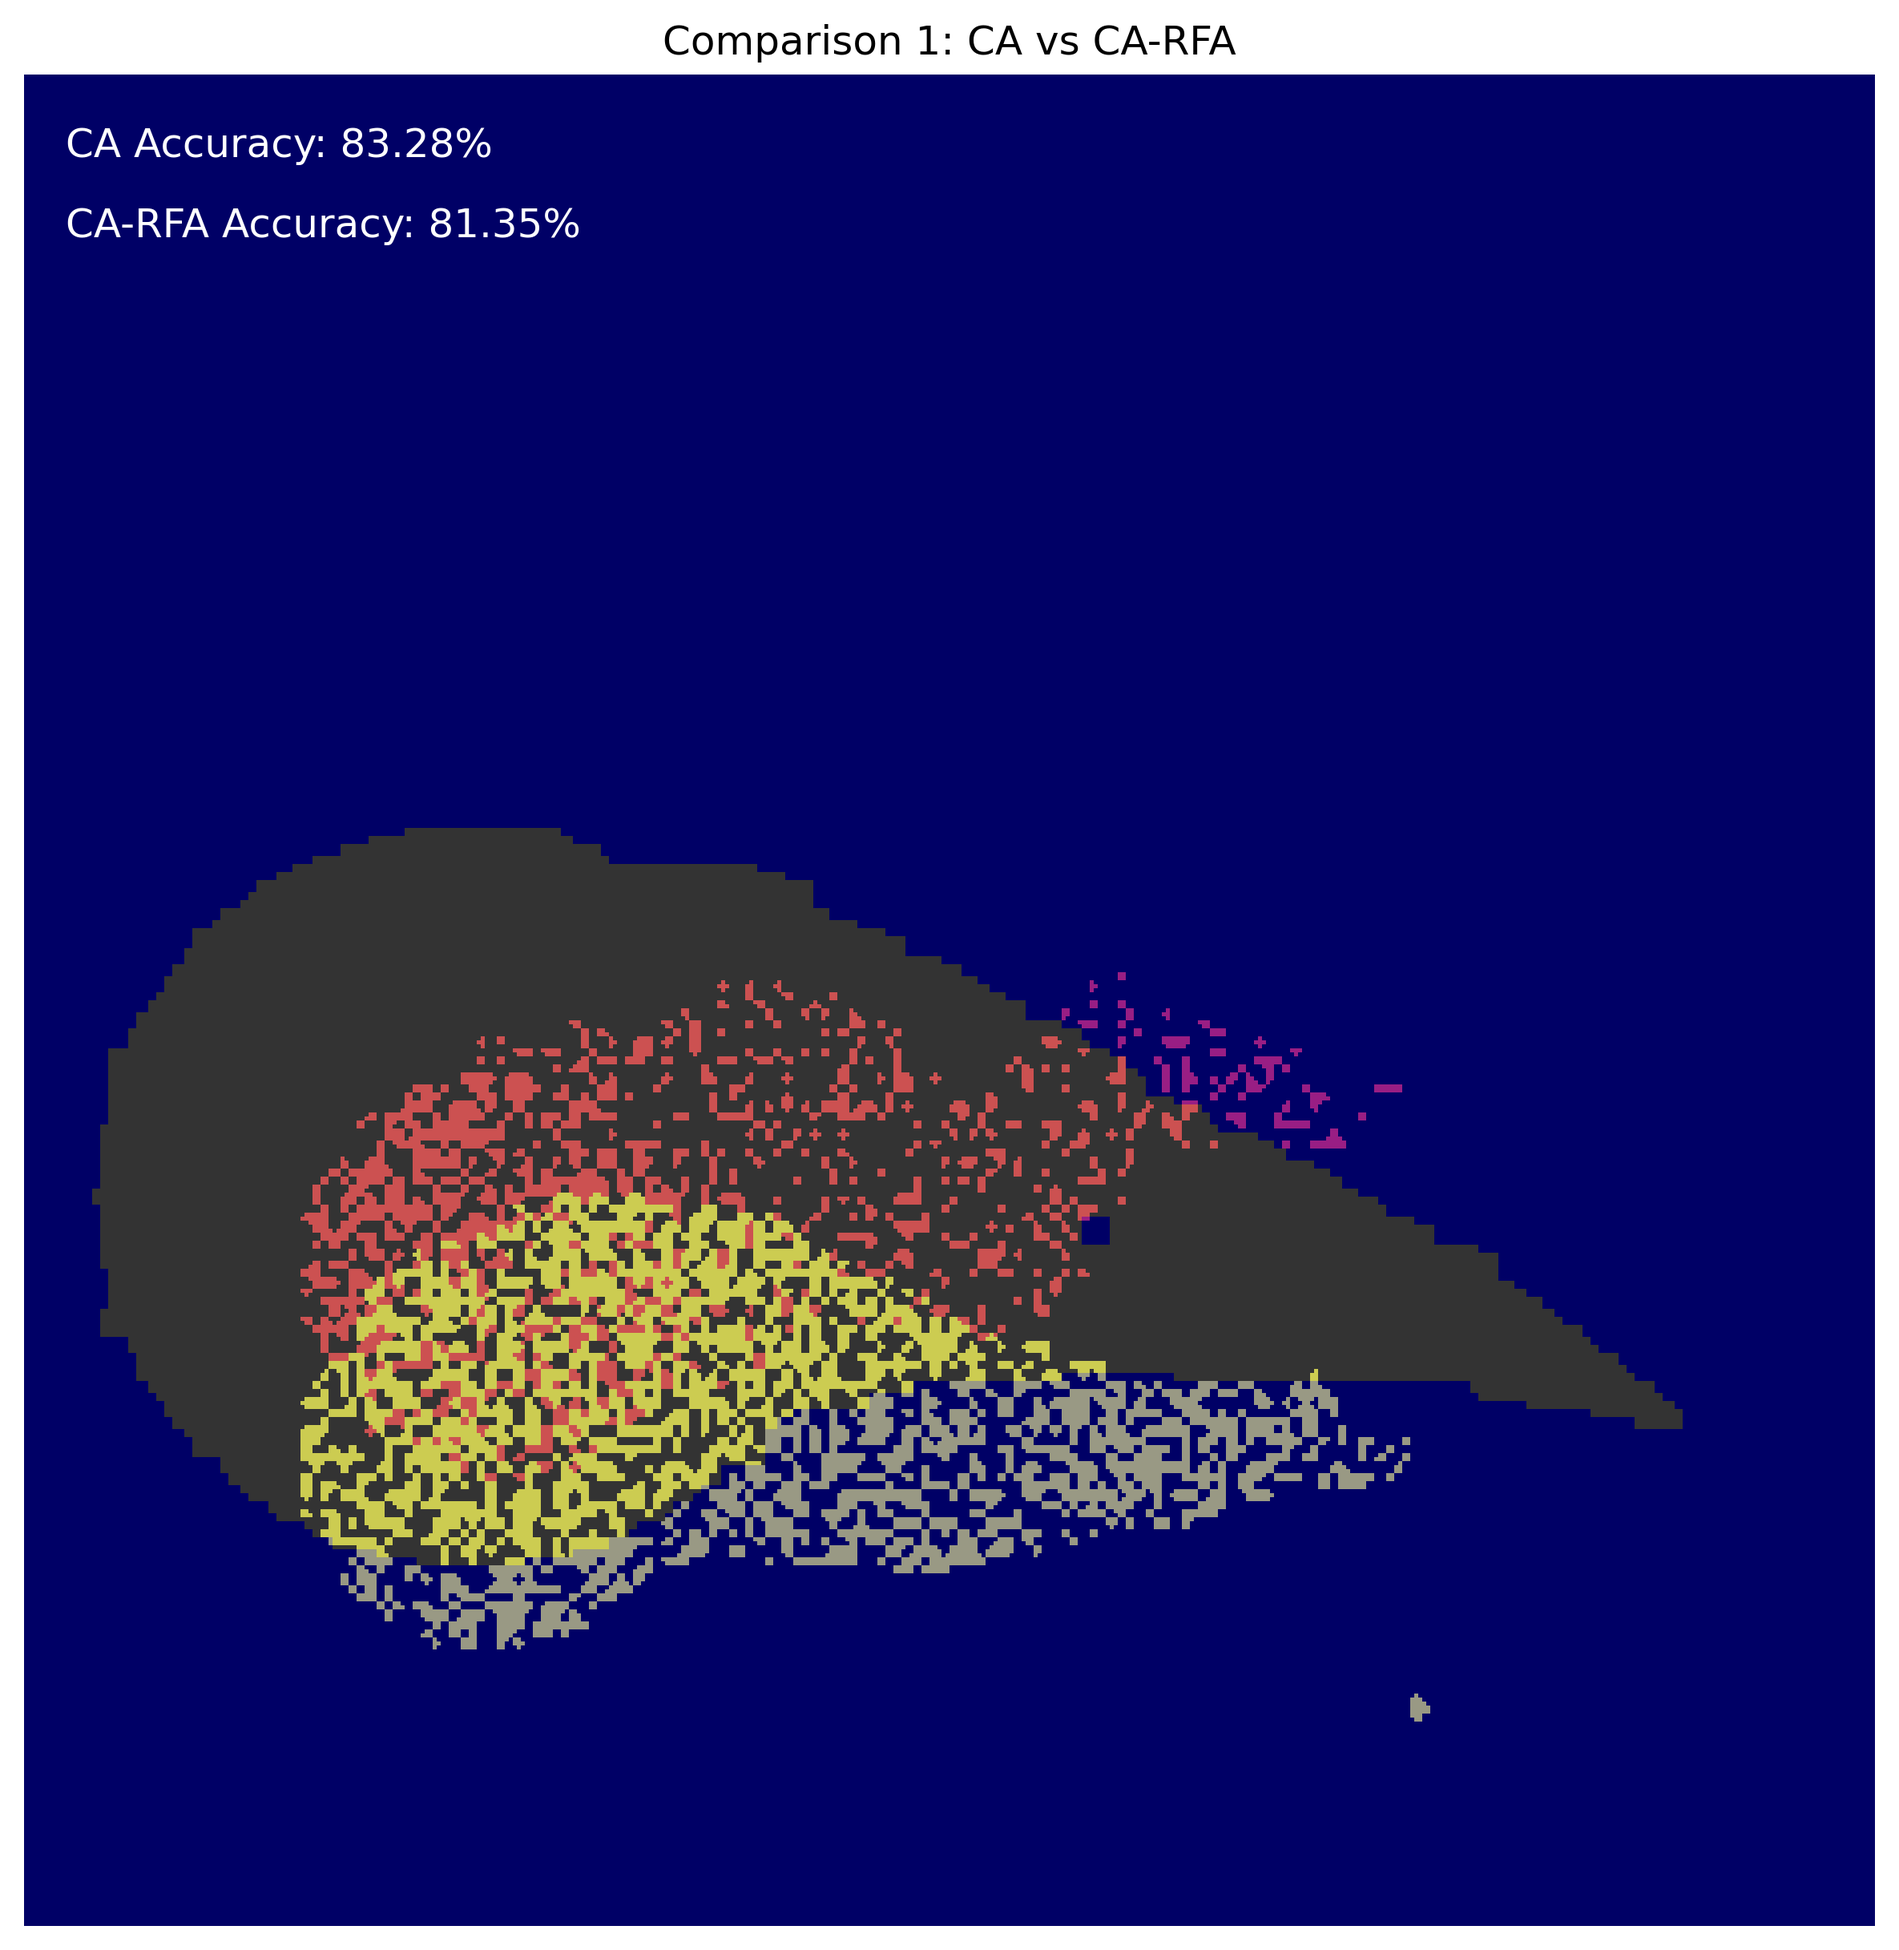
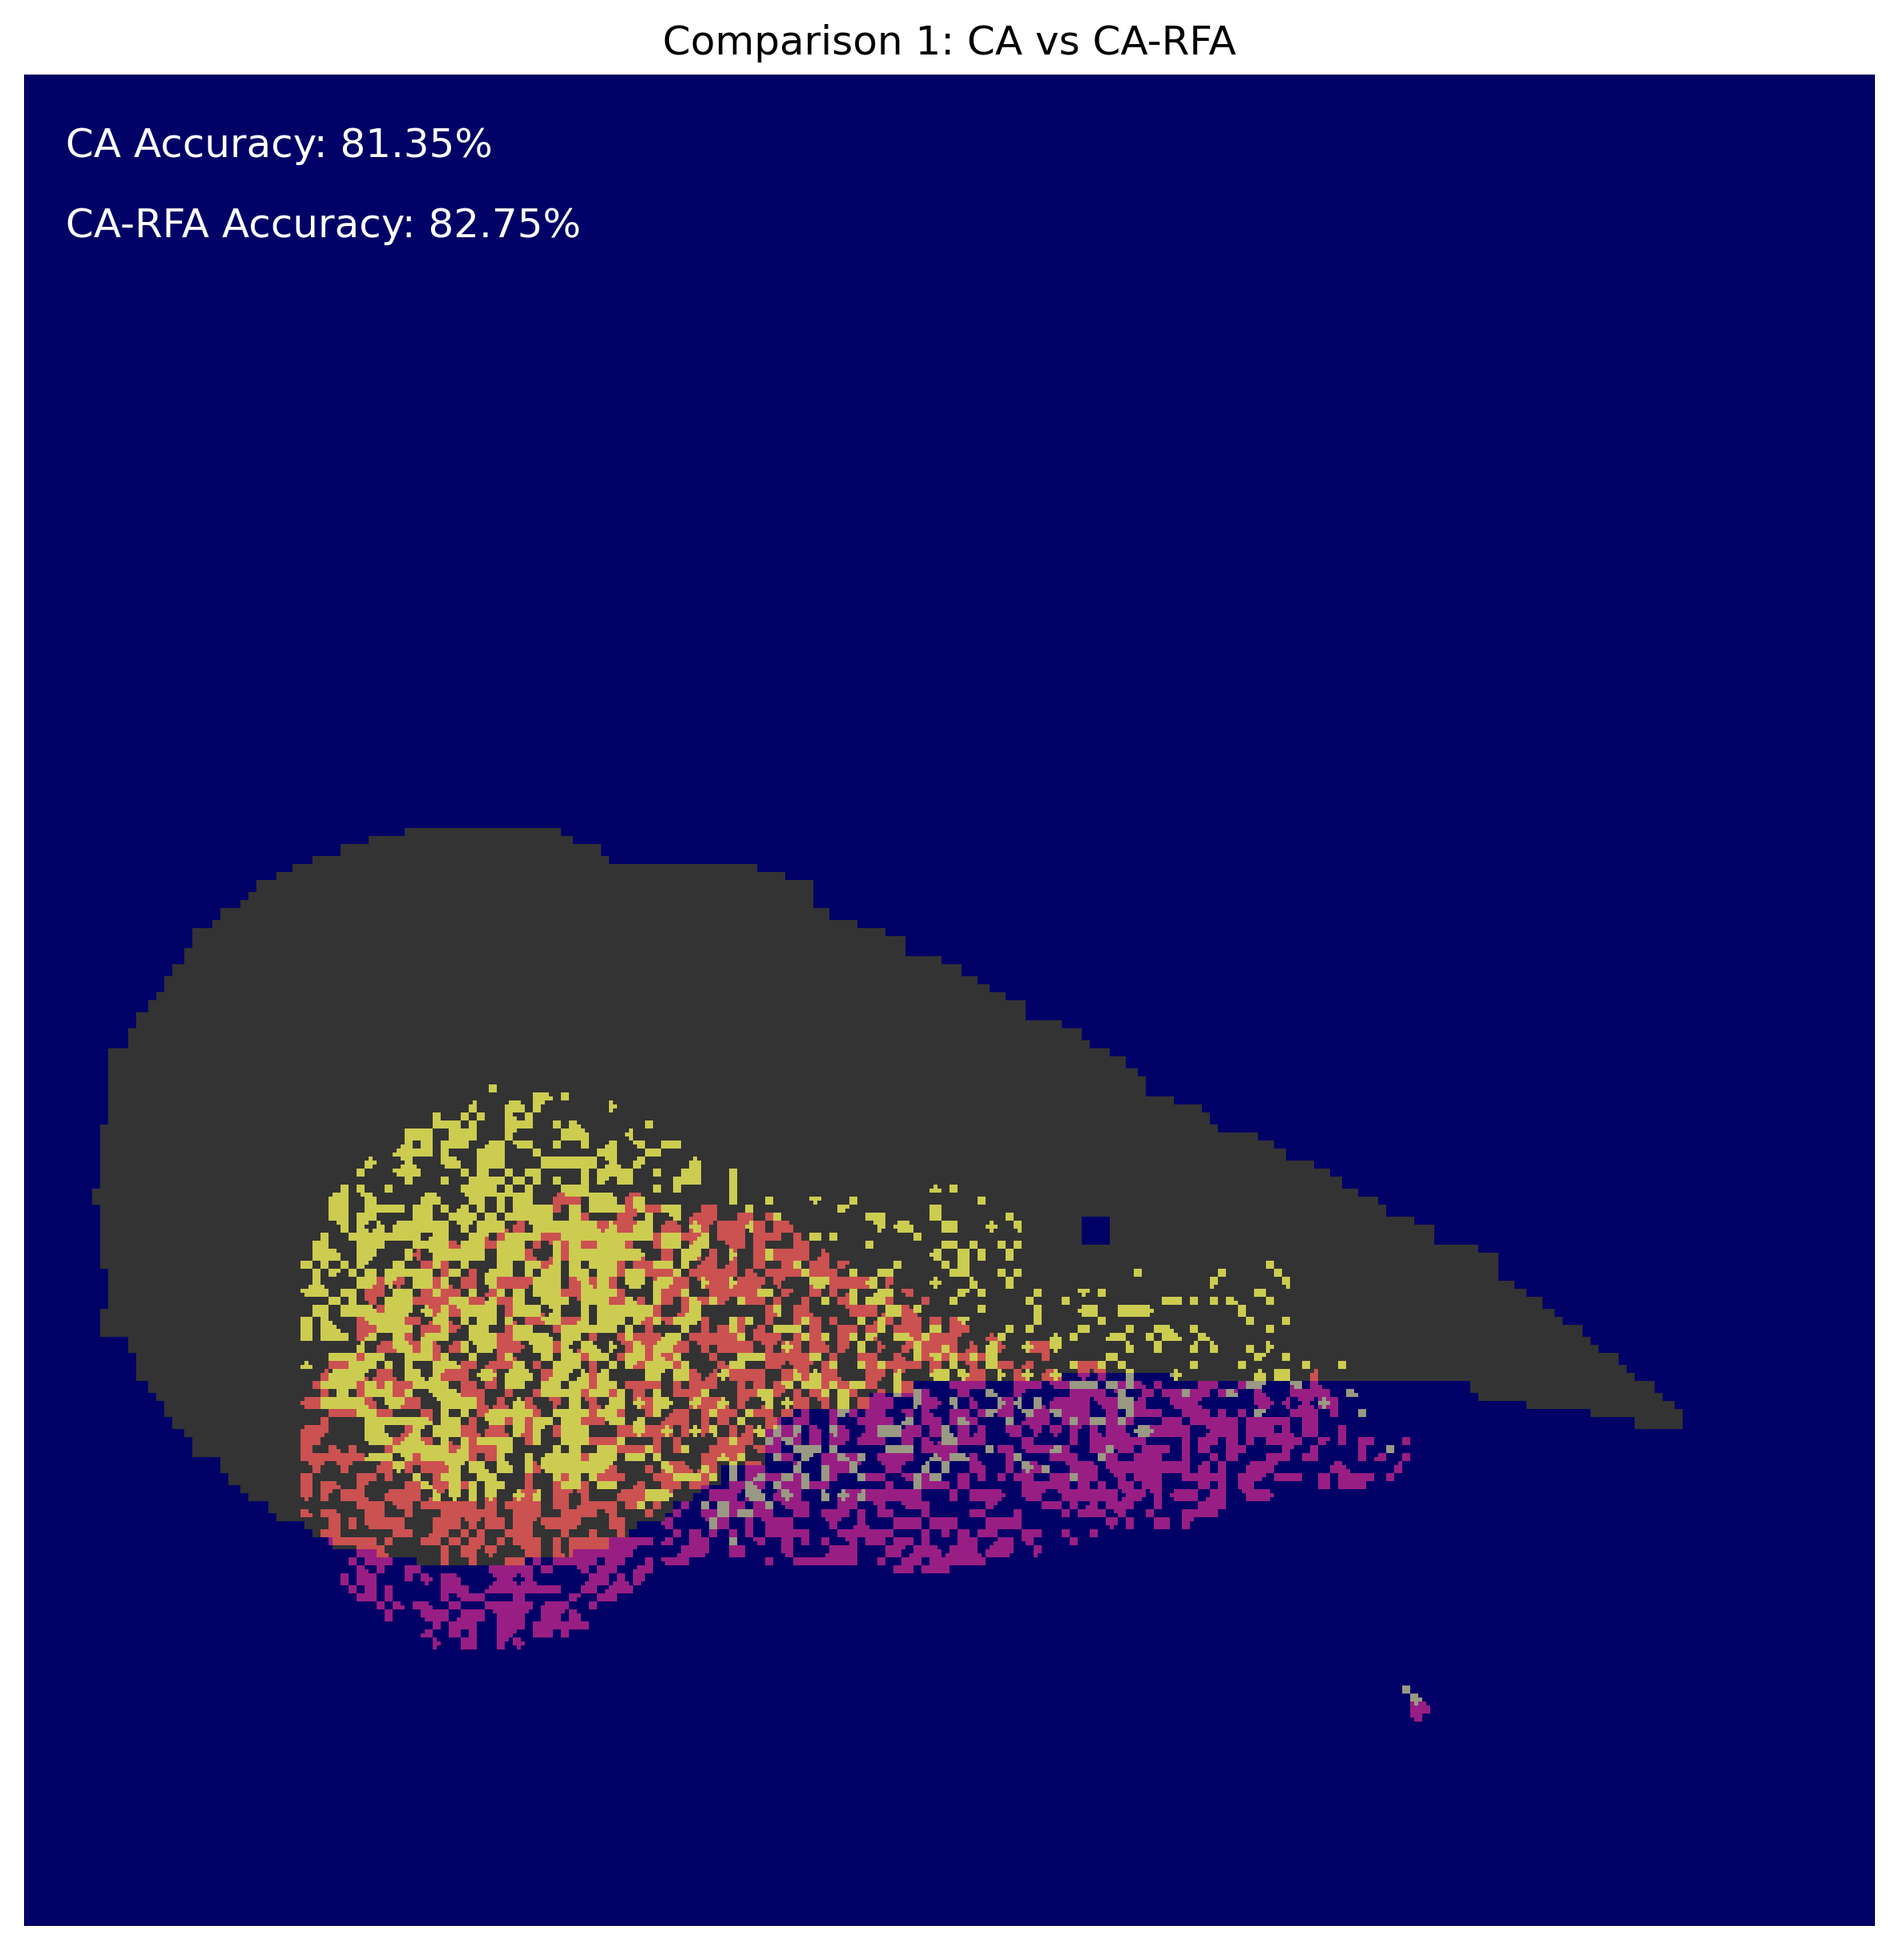
comparison result

Changed region(s): [[0.1561, 0.4998, 0.7181, 0.8434], [0.1873, 0.0625, 0.2498, 0.0937]]

diff --git a/accuracyTest.py b/accuracyTest.py
@@ -146,8 +146,8 @@ def batch_compare_models(processed_folder, ca_folder, ca_rfa_folder, output_fold
 # Example usage
 if __name__ == "__main__":
     processed_folder = "./images_processed_typhoon"
-    ca_folder = "./images_Reg_CA_model"
-    ca_rfa_folder = "./images_Hybrid_Model"
+    ca_folder = "./images_Hybrid_Model" 
+    ca_rfa_folder = "./images_Reg_CA_model"
     
     # Run batch comparison
     batch_comparison_results = batch_compare_models(processed_folder, ca_folder, ca_rfa_folder)
